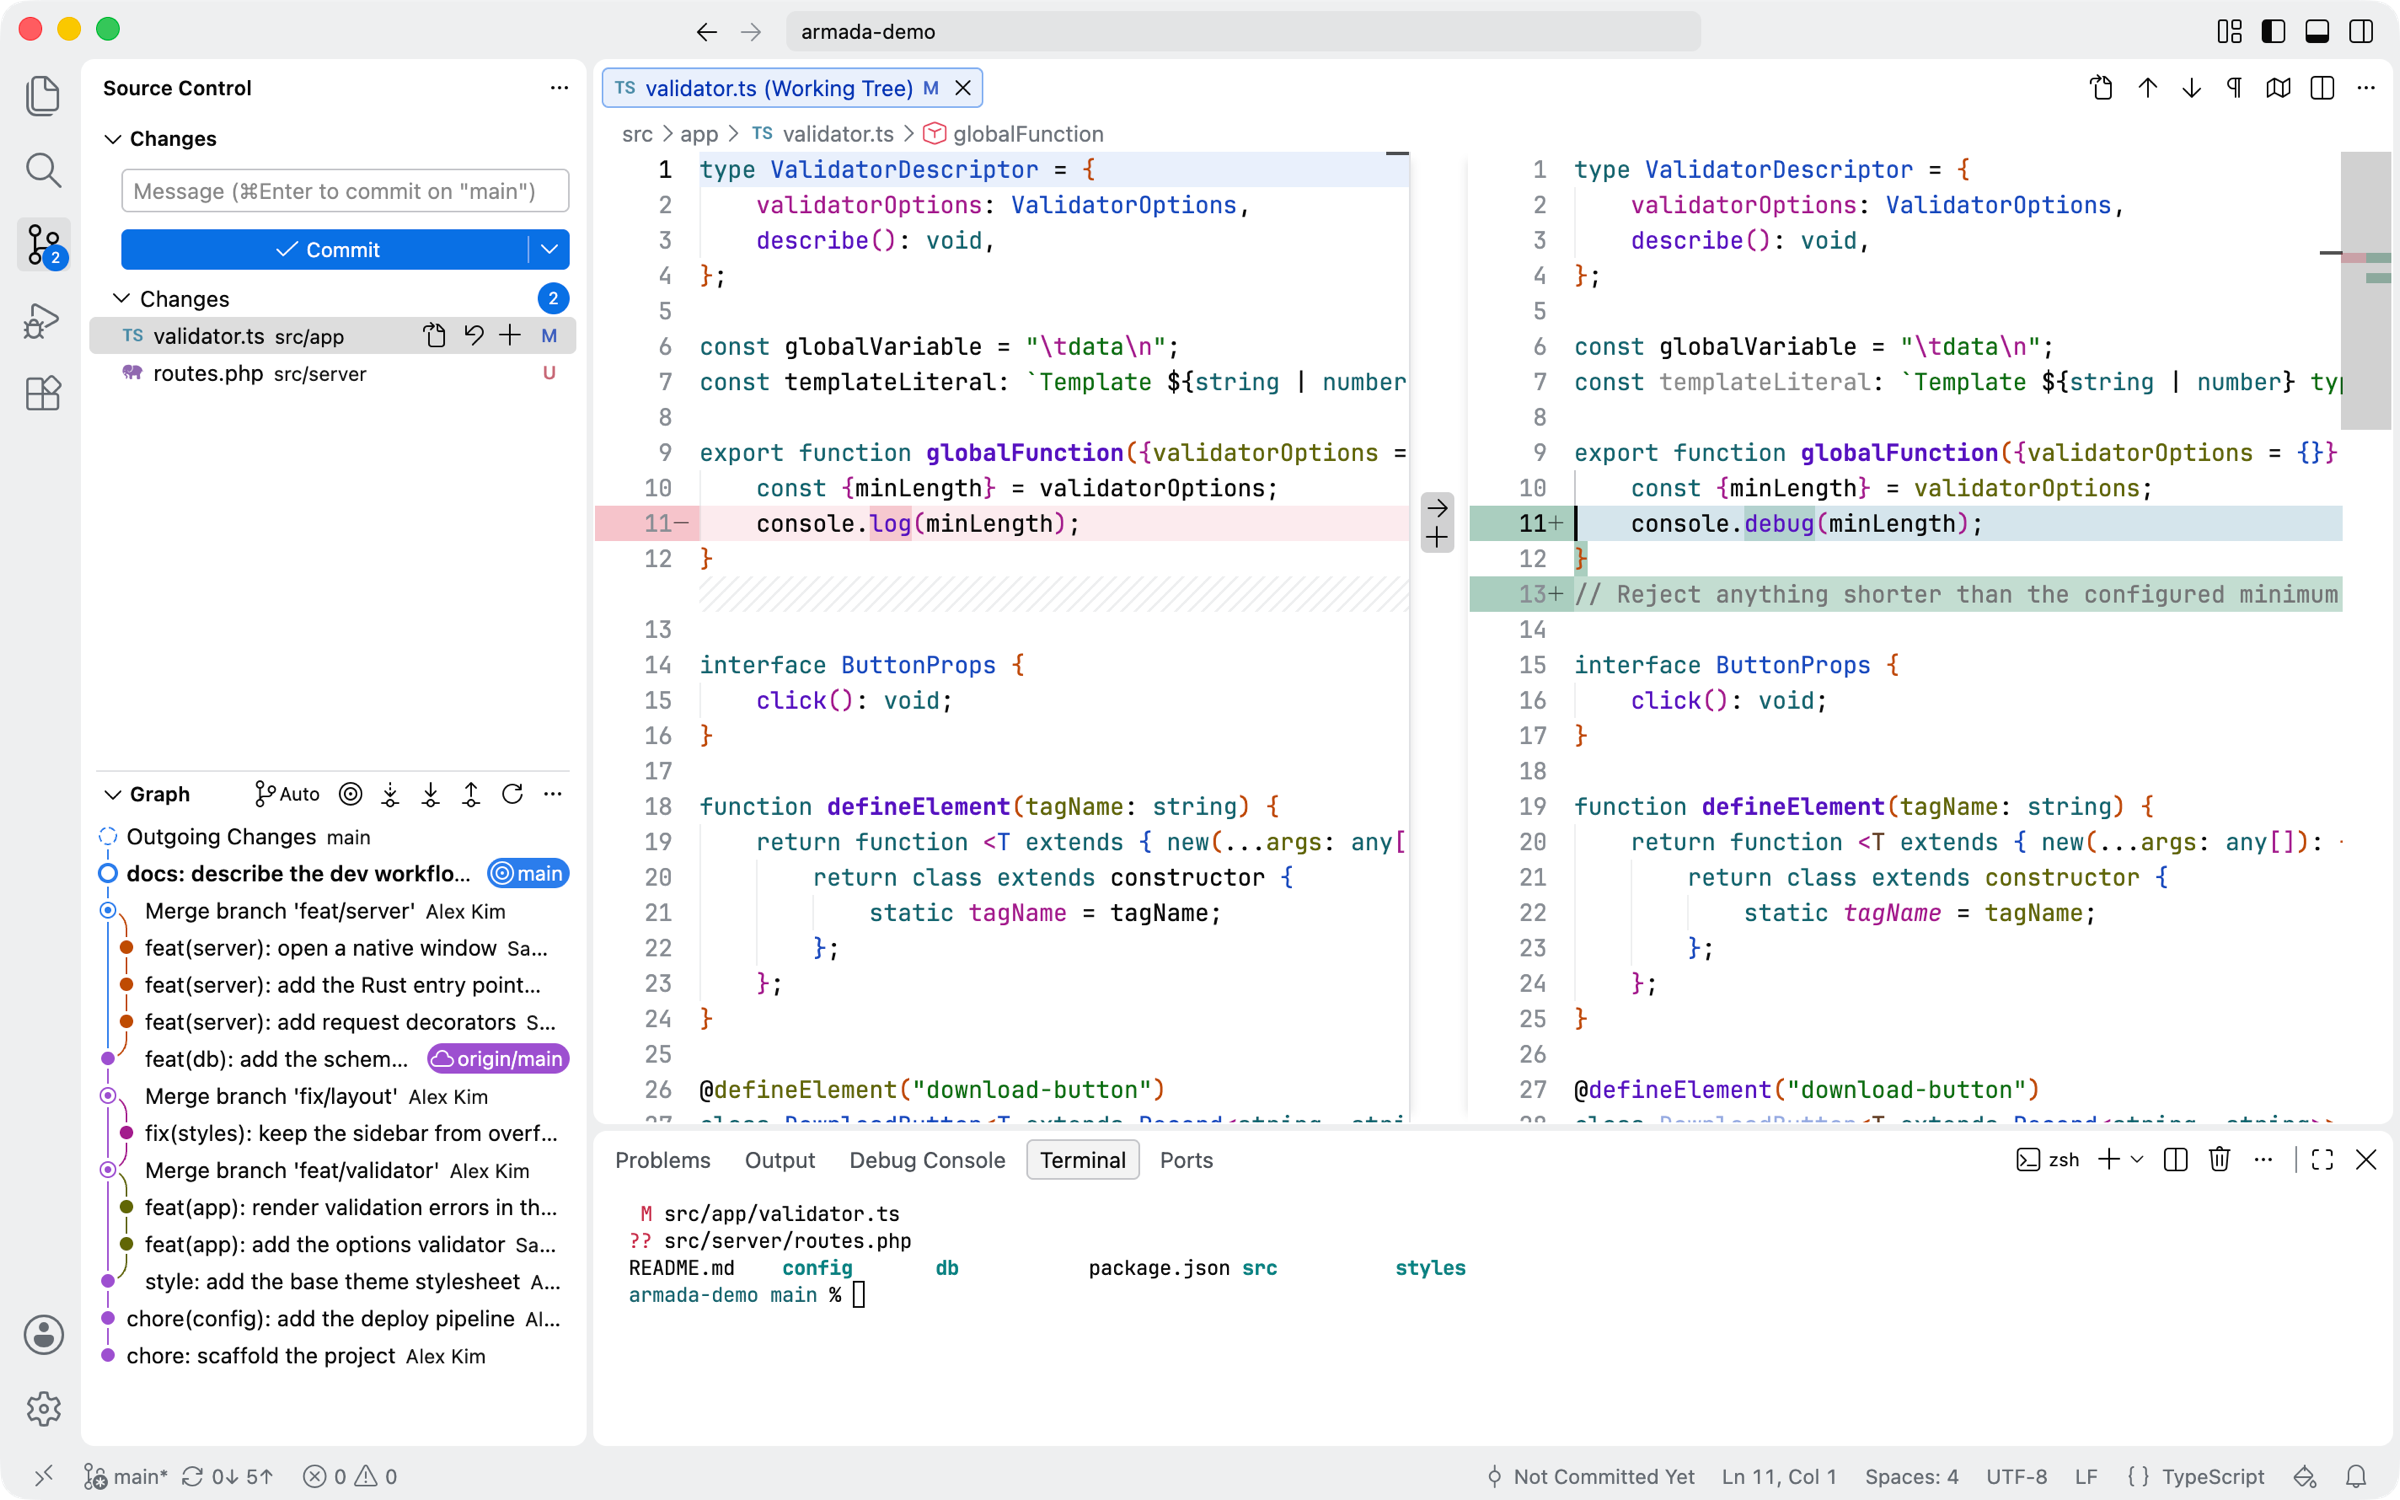
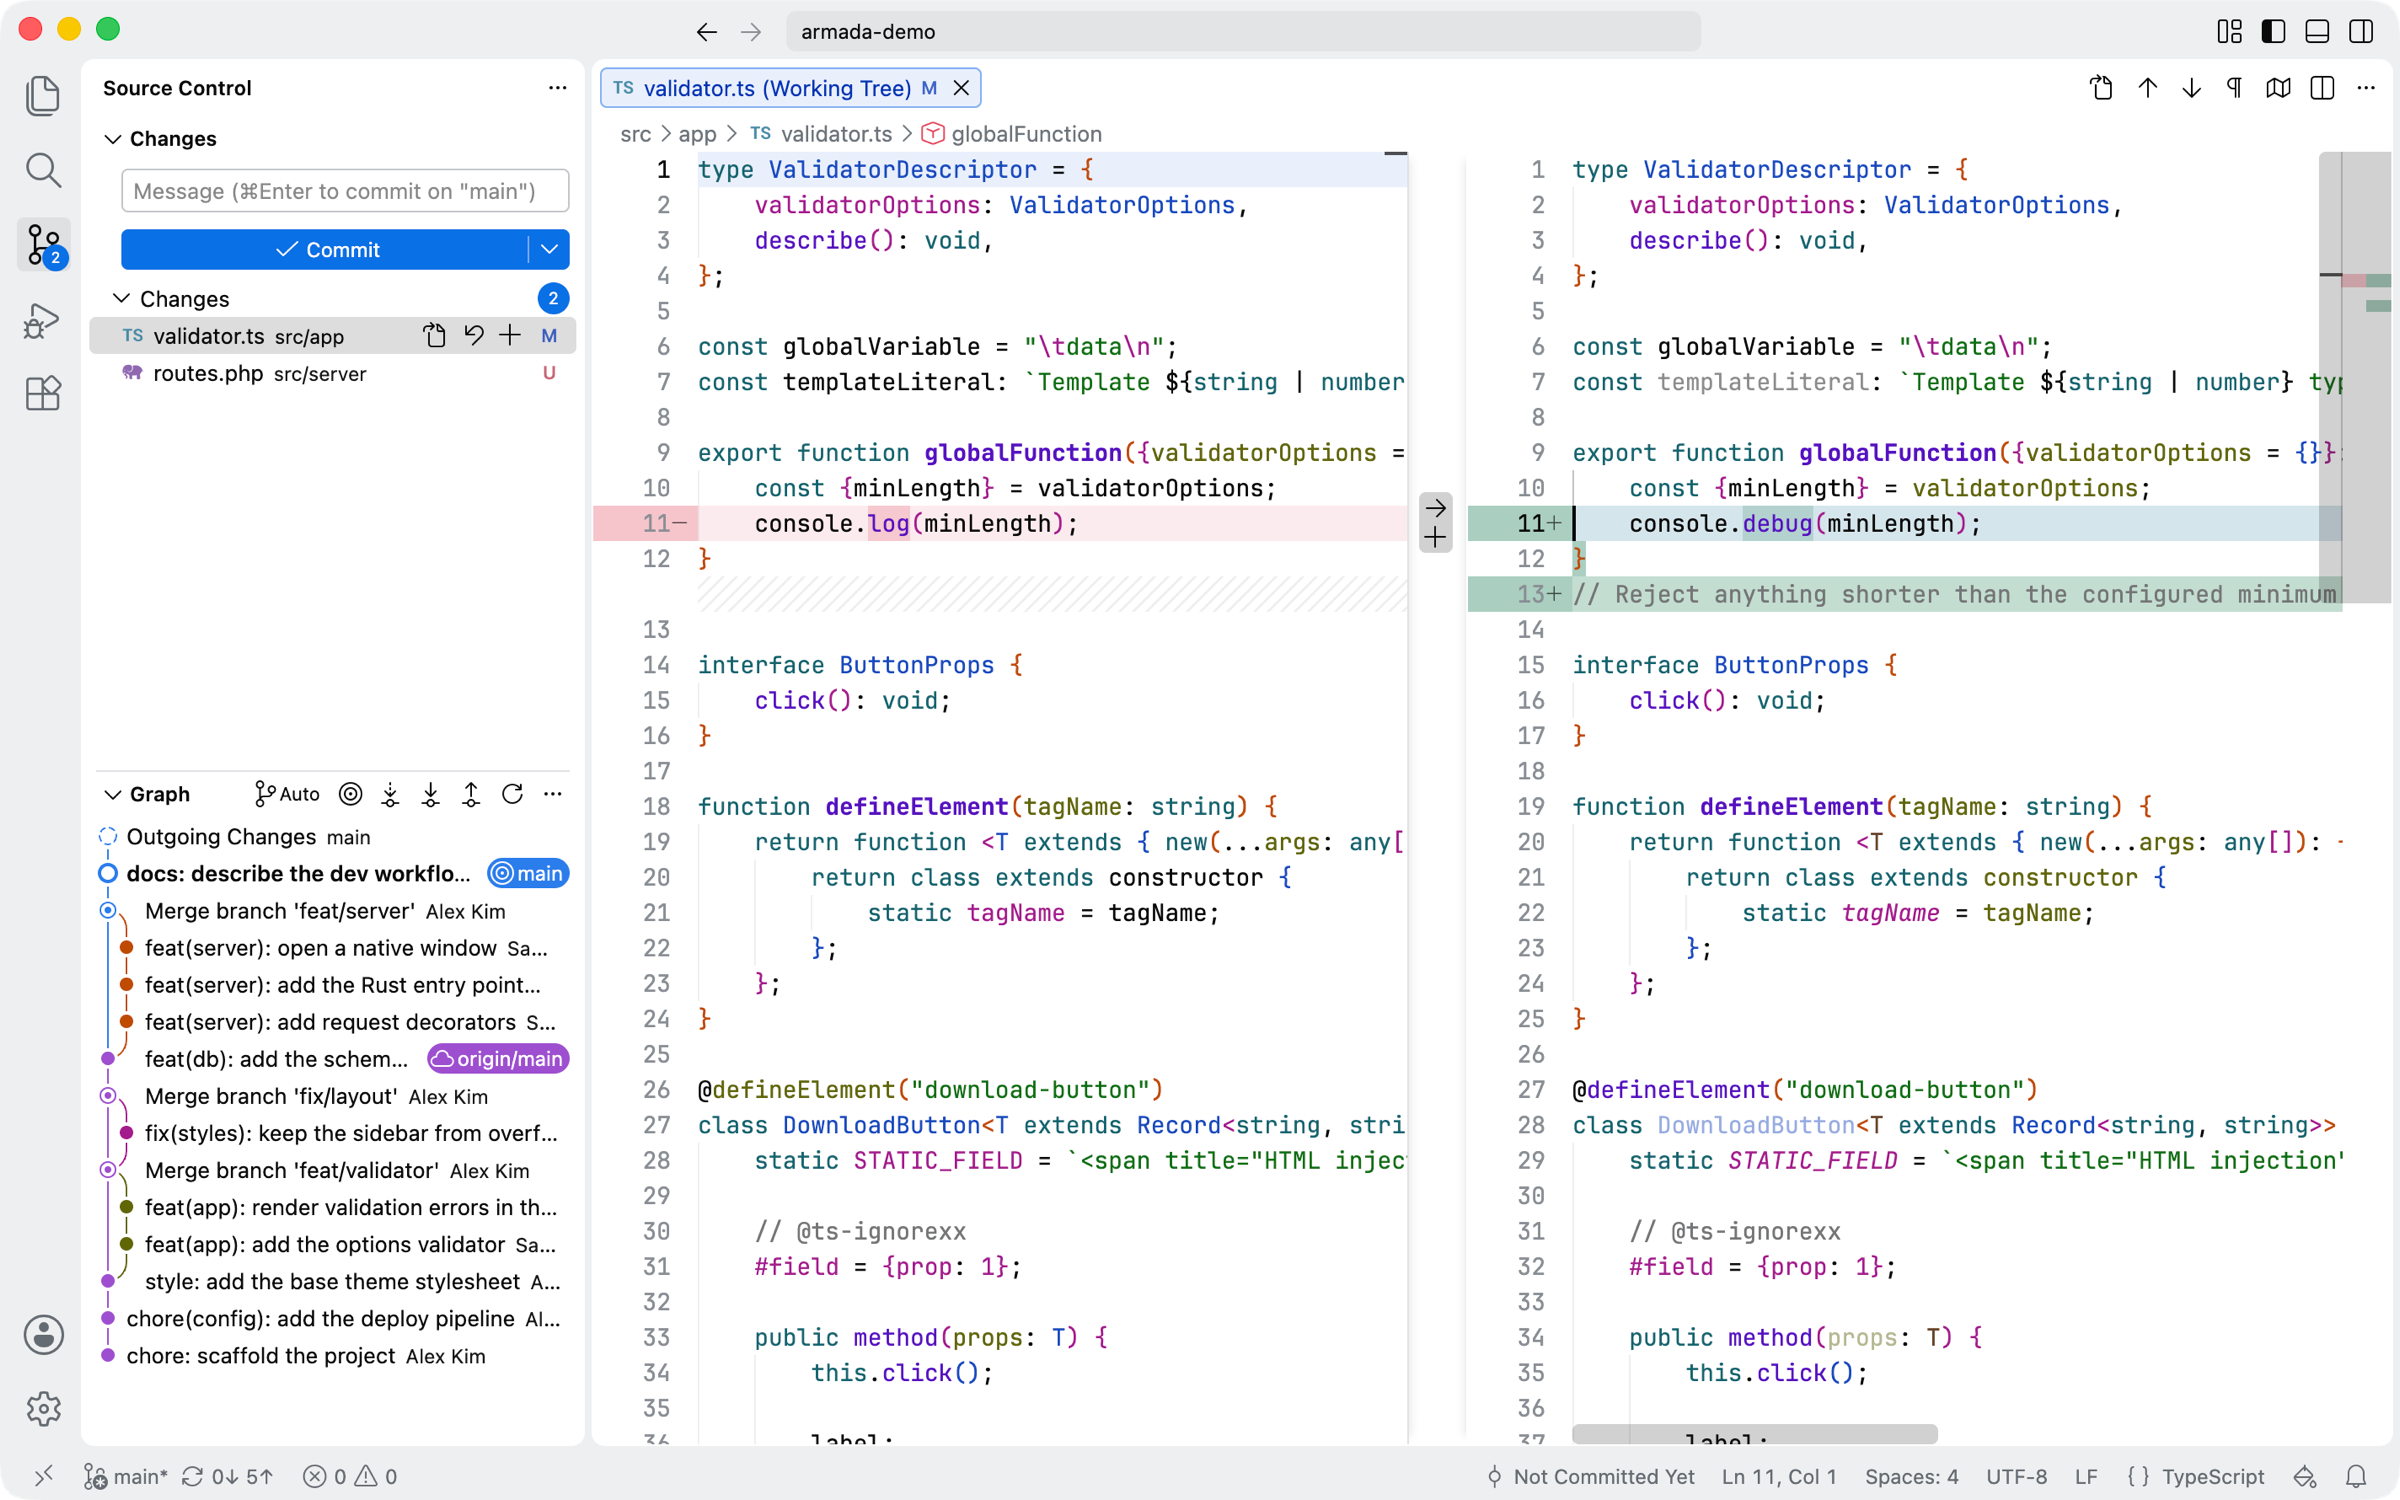
Retake the screenshots for both themes with matching staging
Each Armada Dark and Armada Light pair now comes from the same staged
window. The terminal panel shows only in the overview, where it is the
subject, so code fills the editor elsewhere. The theme picker, with the
shot's own theme highlighted, replaces the Command Palette shot.

command-palette.png stays in the repository although the README no
longer uses it: the 2.2.0 Marketplace page still links to it.

diff --git a/README.md b/README.md
@@ -49,8 +49,8 @@ With the [optional custom CSS](#optional-custom-css), which rounds the side bar 
     <td><a href="https://github.com/DavidSeptimus/armada-theme-vscode-extension/raw/HEAD/images/diff-light.png"><img src="./images/diff-light.png" alt="A diff of a modified file in Armada Light"></a></td>
   </tr>
   <tr>
-    <td><a href="https://github.com/DavidSeptimus/armada-theme-vscode-extension/raw/HEAD/images/command-palette.png"><img src="./images/command-palette.png" alt="The Command Palette in Armada Dark"></a></td>
-    <td><a href="https://github.com/DavidSeptimus/armada-theme-vscode-extension/raw/HEAD/images/command-palette-light.png"><img src="./images/command-palette-light.png" alt="The Command Palette in Armada Light"></a></td>
+    <td><a href="https://github.com/DavidSeptimus/armada-theme-vscode-extension/raw/HEAD/images/theme-picker.png"><img src="./images/theme-picker.png" alt="The color theme picker with Armada Dark highlighted"></a></td>
+    <td><a href="https://github.com/DavidSeptimus/armada-theme-vscode-extension/raw/HEAD/images/theme-picker-light.png"><img src="./images/theme-picker-light.png" alt="The color theme picker with Armada Light highlighted"></a></td>
   </tr>
   <tr>
     <td><a href="https://github.com/DavidSeptimus/armada-theme-vscode-extension/raw/HEAD/images/settings.png"><img src="./images/settings.png" alt="The Settings editor in Armada Dark"></a></td>
